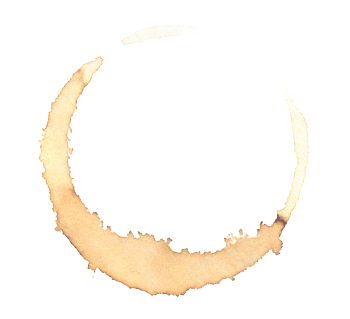
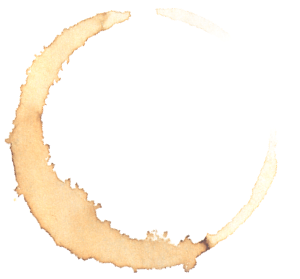
Adds button to html and css. Corrects image overlaping which was disabling button effects.

Changed region(s): [[0.0, 0.0287, 0.93, 0.9749], [0.63, 0.086, 0.66, 0.1147], [0.51, 0.0287, 0.54, 0.0573]]

diff --git a/index.html b/index.html
@@ -90,7 +90,8 @@
             <p>
               Use the steps you took from each day from your steps tracker to gain points for avatar upgrades. The more you workout the more equipment upgrades you can afford. Battle other players and may the fittest player win.
             </p>
-            <input type="image" src="logg.png" name="saveForm" class="btTxt submit" id="saveForm" />
+            <button id="stepsWeb" class="astext">Website</button>
+            <button id="stepsCode" class="astext">Checkout Code</button>
           </div>
           <div class="Grid-cell2">
             <img src="photos/stepsbattle.png" alt="laptop with Steps Battle app walk-through playing">
@@ -107,7 +108,8 @@
             <p>
               A web application for the modern vegan. This app is designed to help vegans find the vegan food options at fast food chains and restaurants. Instead of Googling "what can I eat at this restaurant?," and searching through websites and blogs for the answer, you can now easily find everything in one app. It has full CRUD functionality, built with AngularJS on top of a Ruby on Rails API.
             </p>
-            <input type="image" src="logg.png" name="saveForm" class="btTxt submit" id="saveForm" />
+            <button id="vivaWeb" class="astext">Website</button>
+            <button id="vivaCode" class="astext">Checkout Code</button>
           </div>
         </div>
 
@@ -118,7 +120,8 @@
             <p>
               Test your memory skills with this simple memory game. Find all the matching colors and be cheered on when you win. Always have a new shuffled deck upon reset to keep your skills sharp.
             </p>
-            <input type="image" src="logg.png" name="saveForm" class="btTxt submit" id="saveForm" />
+            <button id="memoryWeb" class="astext">Website</button>
+            <button id="memoryCode" class="astext">Checkout Code</button>
           </div>
           <div class="Grid-cell2">
             <img src="photos/memoryplay.png" alt="laptop with memory game playing">

diff --git a/css/styles.css b/css/styles.css
@@ -317,7 +317,7 @@ img{
 
 .coffeestain2{
   height: 160px;
-  width: 50%;
+  width: 20%;
   background-image: url("../photos/coffeestain2.png");
   background-repeat: no-repeat;
   position: absolute;
@@ -338,12 +338,30 @@ img{
 
 .coffeestain4{
   height: 400px;
-  width: 50%;
+  width: 20%;
   background-image: url("../photos/coffeestain4.png");
   background-repeat: no-repeat;
   position: absolute;
   margin-left: -6em;
   margin-top: 1em;
+}
+
+button{
+  z-index: 5;
+}
+.astext {
+    background:none;
+    border:none;
+    margin: 0;
+    padding: 0 8px;
+    font-family: 'Fredericka the Great', cursive;
+    font-size: 22px;
+}
+
+.astext:hover{
+  font-size: 28px;
+  color: rgb(213, 210, 210);
+  background-color: rgb(33, 33, 32);
 }
 
 
